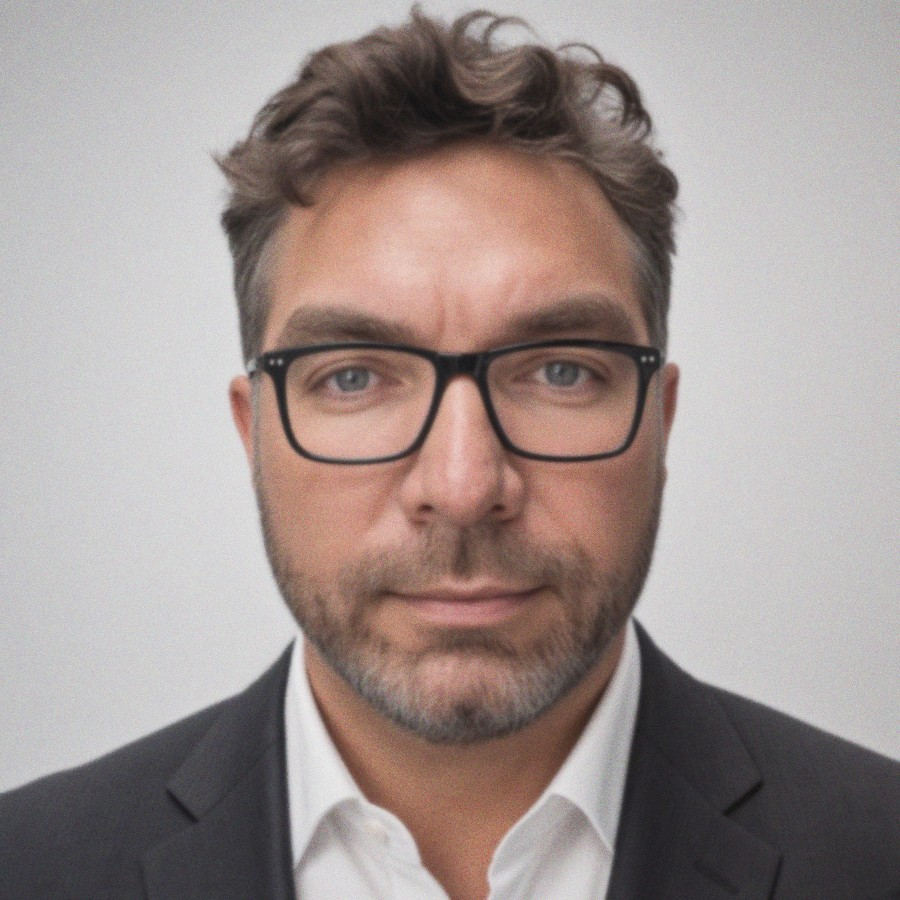
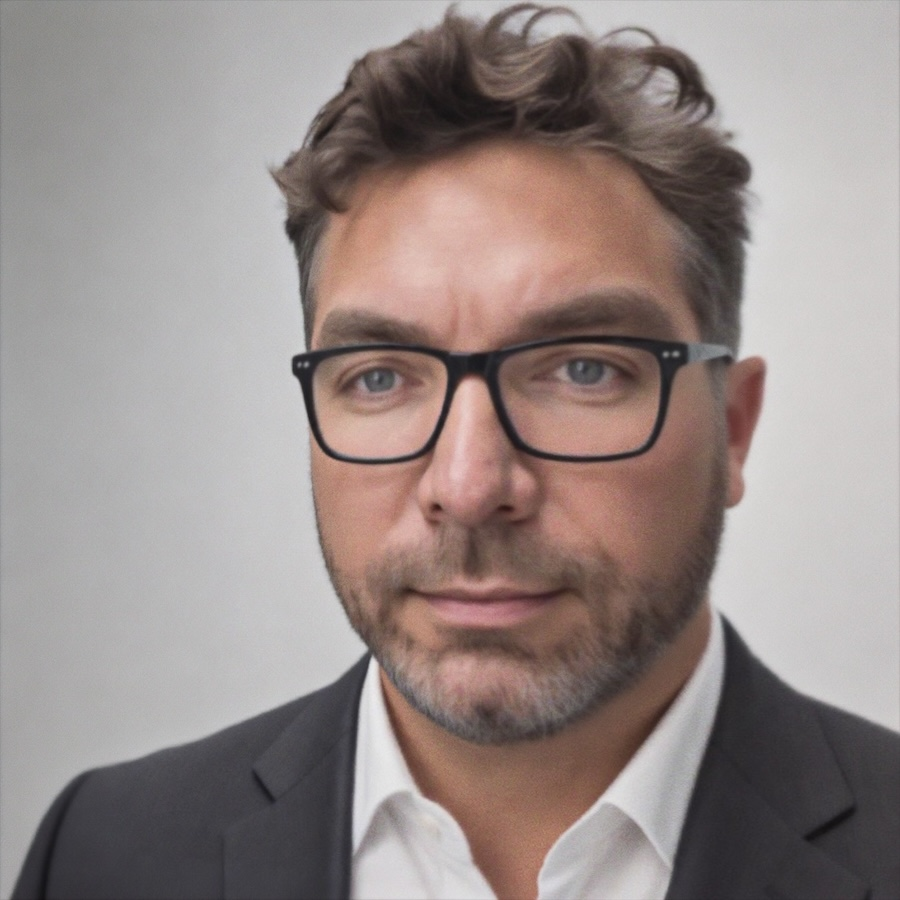
About: angled headshot

diff --git a/about.html b/about.html
@@ -80,7 +80,7 @@
         <div class="prose">
           <p class="eyebrow">Who we are</p>
           <div class="bio-portrait">
-            <img src="assets/aquiles.jpg" width="900" height="900" alt="Aquiles Perez, PhD, principal of EC&amp;A Solutions Eng LLC">
+            <img src="assets/aquiles.jpg?v=20261013" width="900" height="900" alt="Aquiles Perez, PhD, principal of EC&amp;A Solutions Eng LLC">
           </div>
           <h2 id="principal">Aquiles Perez, PhD</h2>
           <hr class="rule">
